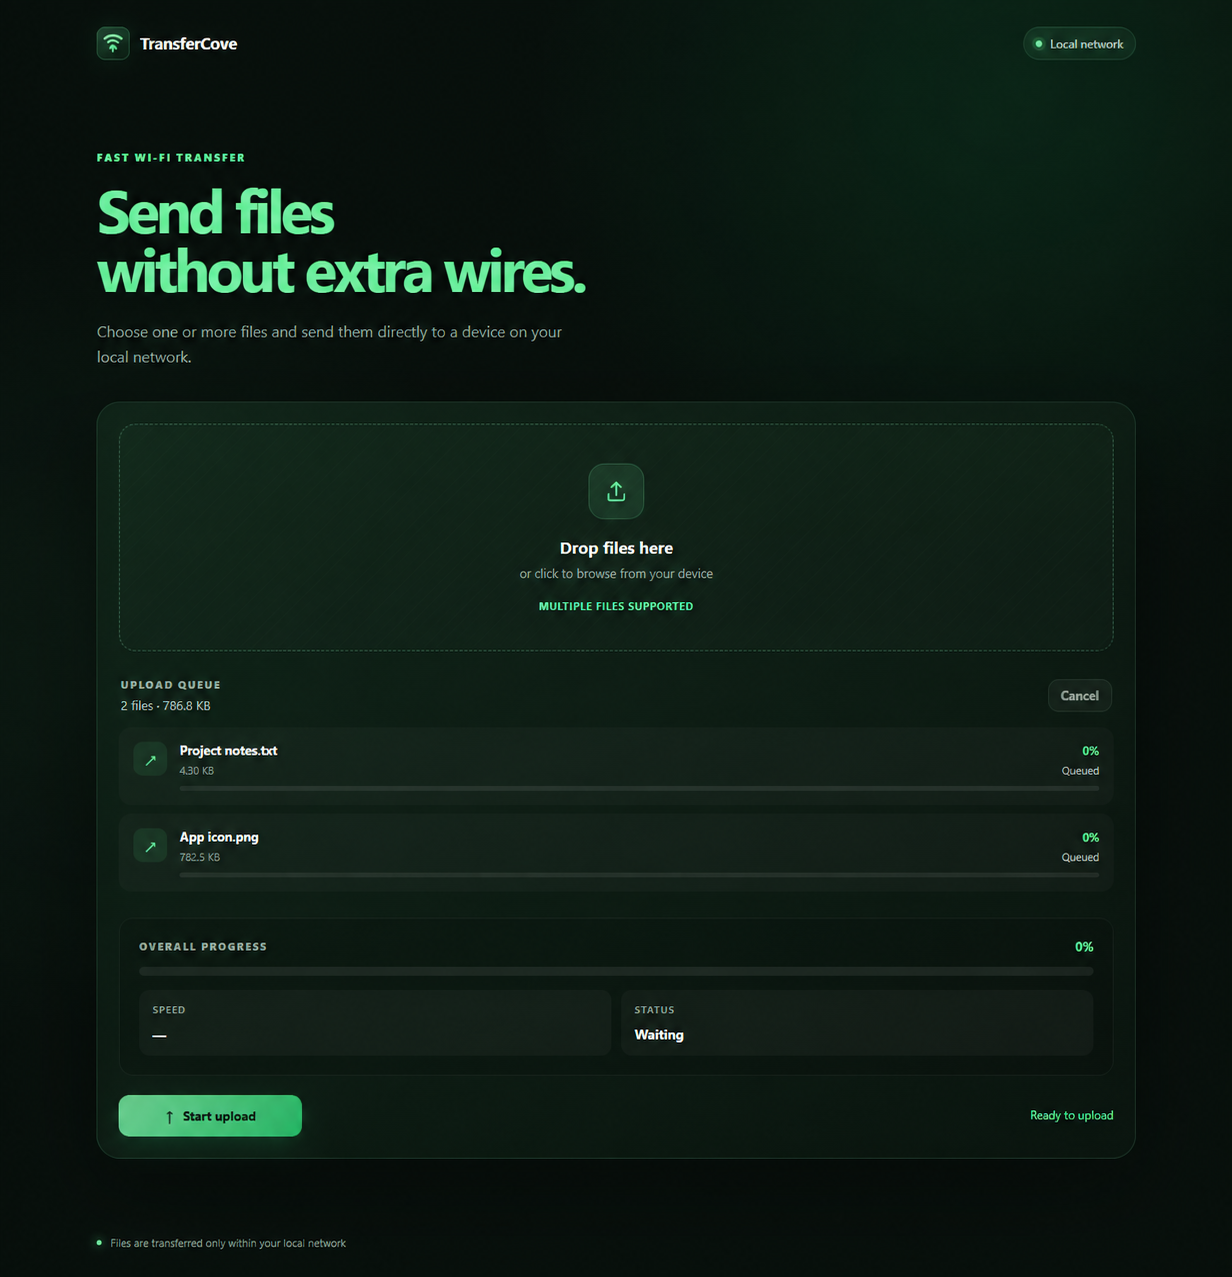
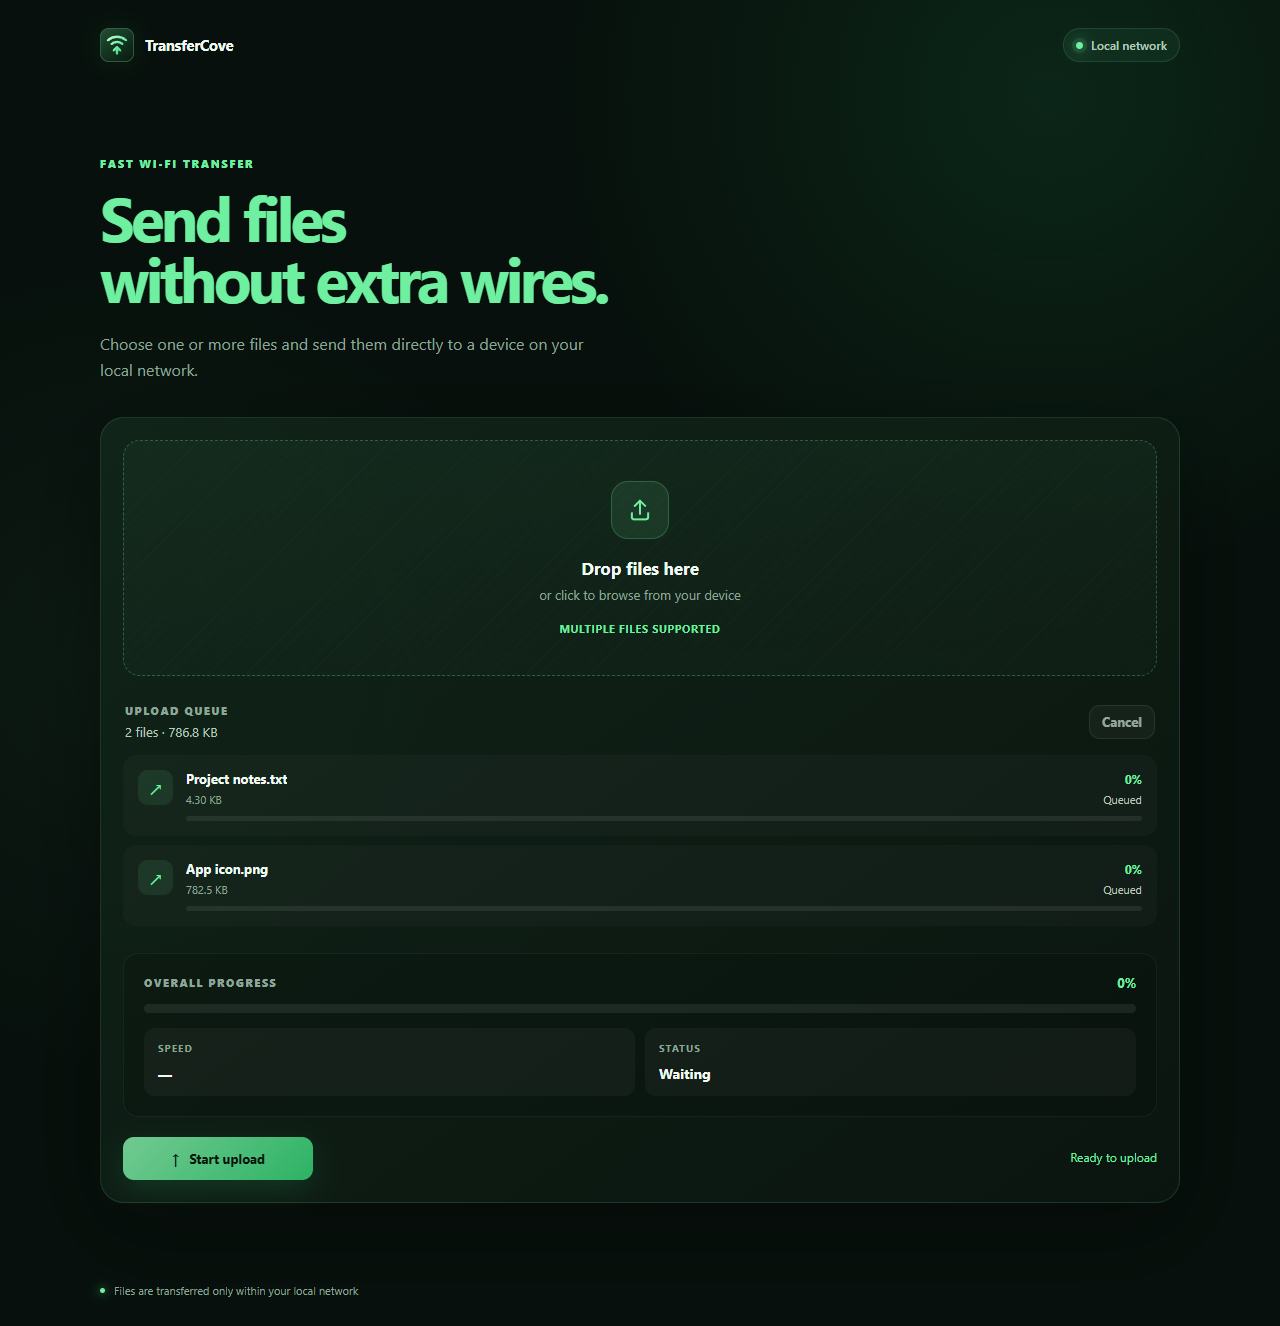
chore(showcase): update site to version 0.2.3

diff --git a/index.html b/index.html
@@ -35,7 +35,7 @@
       <main>
         <section class="hero page-width" aria-labelledby="hero-title">
           <div class="hero-copy">
-            <div class="eyebrow"><span class="pulse-dot"></span> Local-first file transfer <span class="eyebrow-divider">/</span> v0.2.0</div>
+            <div class="eyebrow"><span class="pulse-dot"></span> Local-first file transfer <span class="eyebrow-divider">/</span> v0.2.3</div>
             <h1 id="hero-title">Your files.<br><span>Your network.</span></h1>
             <p class="hero-lede">TransferCove moves files between devices over the Wi-Fi you already trust. Control the receiver from a focused desktop app, then send from any browser.</p>
             <div class="hero-actions">
@@ -114,7 +114,8 @@
         <section class="preview-section page-width" id="preview" aria-labelledby="preview-title">
           <div class="preview-heading"><div><span class="eyebrow">A closer look</span><h2 id="preview-title">One visual language.<br><span>Two interfaces.</span></h2></div><p>Dark green surfaces, bright status signals, and enough breathing room to keep the important bits obvious.</p></div>
           <div class="screenshots">
-            <a class="screenshot screenshot-main" href="docs/images/dashboard.png"><img src="docs/images/dashboard.png" alt="TransferCove desktop dashboard"></a>
+            <a class="screenshot" href="docs/images/dashboard.png"><img src="docs/images/dashboard.png" alt="TransferCove desktop dashboard"></a>
+            <a class="screenshot" href="docs/images/settings.png"><img src="docs/images/settings.png" alt="TransferCove settings page"></a>
             <a class="screenshot" href="docs/images/upload.png"><img src="docs/images/upload.png" alt="TransferCove browser upload page"></a>
             <a class="screenshot screenshot-mobile" href="docs/images/upload-mobile.png"><img src="docs/images/upload-mobile.png" alt="TransferCove upload page on a mobile screen"></a>
           </div>
@@ -122,7 +123,7 @@
 
         <section class="download-section page-width" id="download" aria-labelledby="download-title">
           <div class="download-card">
-            <div class="download-copy"><span class="eyebrow">Take it with you</span><h2 id="download-title">A better hand-off is<br><span>almost ready.</span></h2><p>Version 0.2.0 is the first polished release milestone. The GitHub release page is ready for the downloadable build as soon as it is published.</p><div class="release-meta"><span class="release-dot"></span><strong>v0.2.0</strong><span>Release coming soon</span></div></div>
+            <div class="download-copy"><span class="eyebrow">Take it with you</span><h2 id="download-title">A better hand-off is<br><span>almost ready.</span></h2><p>Version 0.2.3 is the current release milestone. The GitHub release page will host the downloadable build as soon as it is published.</p><div class="release-meta"><span class="release-dot"></span><strong>v0.2.3</strong><span>Release coming soon</span></div></div>
             <div class="download-action"><a class="button button-primary button-wide" href="https://github.com/AlexZha-dev/WIFI-trancmitor/releases" target="_blank" rel="noreferrer">Open GitHub releases <span aria-hidden="true">↗</span></a><span class="download-hint">The download link will stay the same when the build lands.</span></div>
           </div>
         </section>

diff --git a/styles.css b/styles.css
@@ -194,11 +194,10 @@ h1 span, h2 span { color: var(--green); }
 .preview-section { padding: 148px 0 0; }
 .preview-heading { display: flex; align-items: end; justify-content: space-between; gap: 30px; padding-bottom: 37px; }
 .preview-heading .eyebrow { margin-bottom: 13px; }
-.screenshots { display: grid; grid-template-columns: 1.18fr .82fr; grid-template-rows: 186px 186px; gap: 12px; }
+.screenshots { display: grid; grid-template-columns: repeat(4, minmax(0, 1fr)); grid-template-rows: 280px; gap: 12px; }
 .screenshot { display: block; overflow: hidden; background: var(--panel); border: 1px solid var(--line); border-radius: var(--radius-lg); box-shadow: var(--shadow); }
 .screenshot img { display: block; width: 100%; height: 100%; object-fit: cover; object-position: top center; opacity: .9; transition: transform .45s ease, opacity .3s ease; }
 .screenshot:hover img { opacity: 1; transform: scale(1.025); }
-.screenshot-main { grid-row: 1 / span 2; }
 .screenshot-mobile img { object-position: center 24%; }
 
 .download-section { padding: 148px 0 95px; }
@@ -256,9 +255,7 @@ h1 span, h2 span { color: var(--green); }
   .section-intro > p { grid-column: 2; margin-top: 6px; }
   .feature-grid, .steps-grid { grid-template-columns: 1fr; }
   .feature-card-large { grid-column: auto; min-height: 390px; }
-  .screenshots { grid-template-columns: 1fr 1fr; grid-template-rows: 170px 170px; }
-  .screenshot-main { grid-column: 1 / -1; grid-row: auto; }
-  .screenshot-mobile { display: none; }
+  .screenshots { grid-template-columns: 1fr 1fr; grid-template-rows: 210px 210px; }
   .download-section { padding: 100px 0 65px; }
   .download-card { gap: 31px; padding: 32px 25px; }
   .download-action { width: 100%; }
@@ -277,8 +274,7 @@ h1 span, h2 span { color: var(--green); }
   .demo-drop { min-height: 132px; }
   .demo-actions { align-items: stretch; flex-direction: column; }
   .button-demo { width: 100%; }
-  .screenshots { grid-template-columns: 1fr; grid-template-rows: 170px; }
-  .screenshot:nth-child(2) { display: none; }
+  .screenshots { grid-template-columns: 1fr; grid-template-rows: repeat(4, 210px); }
 }
 
 @media (prefers-reduced-motion: reduce) {
